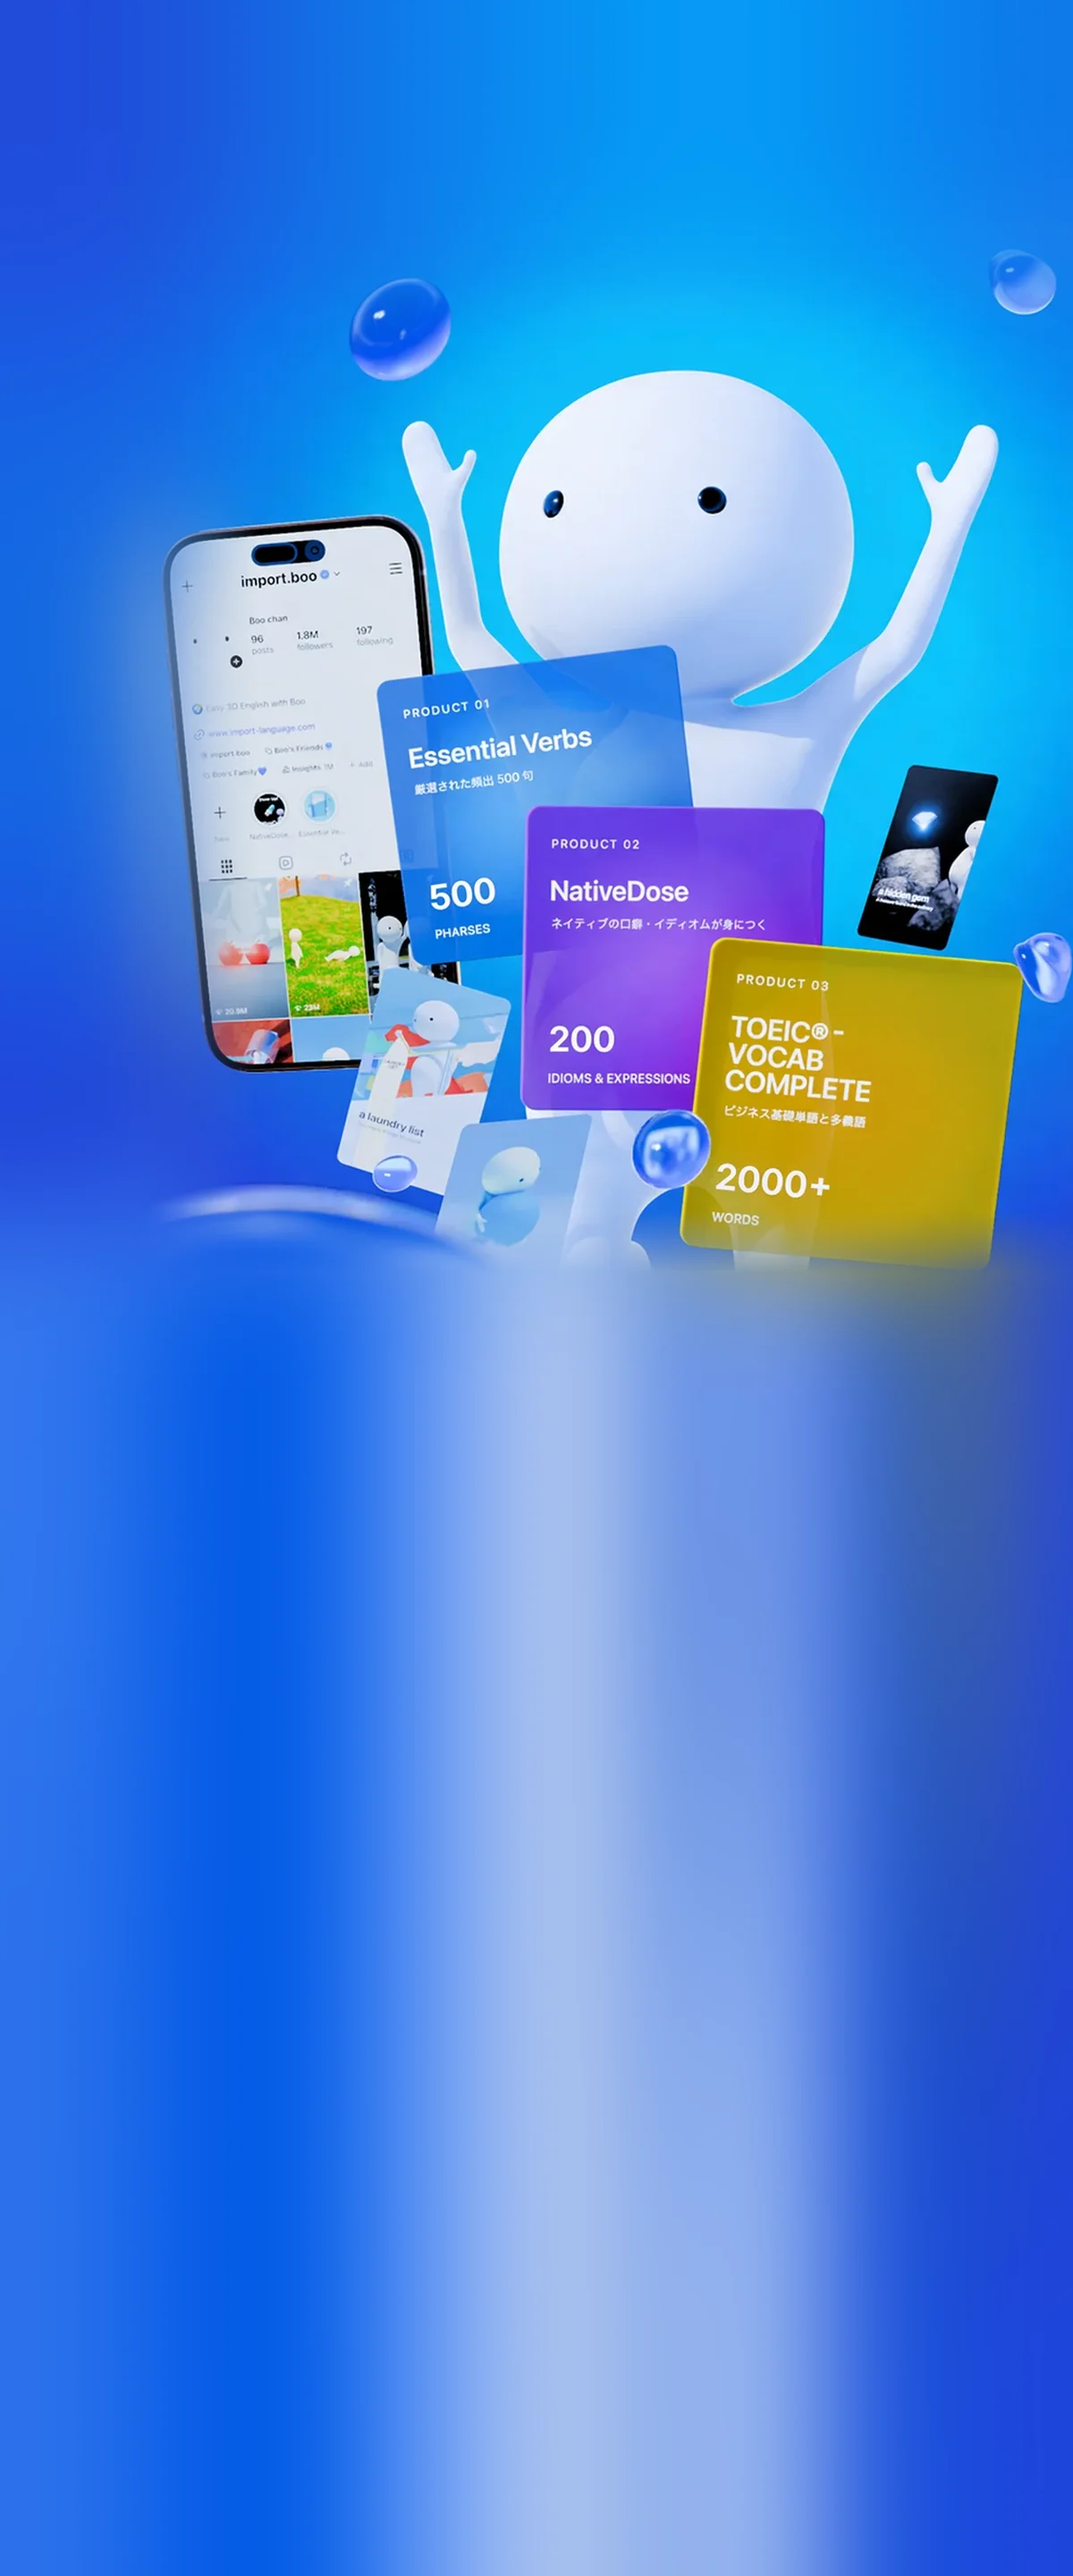
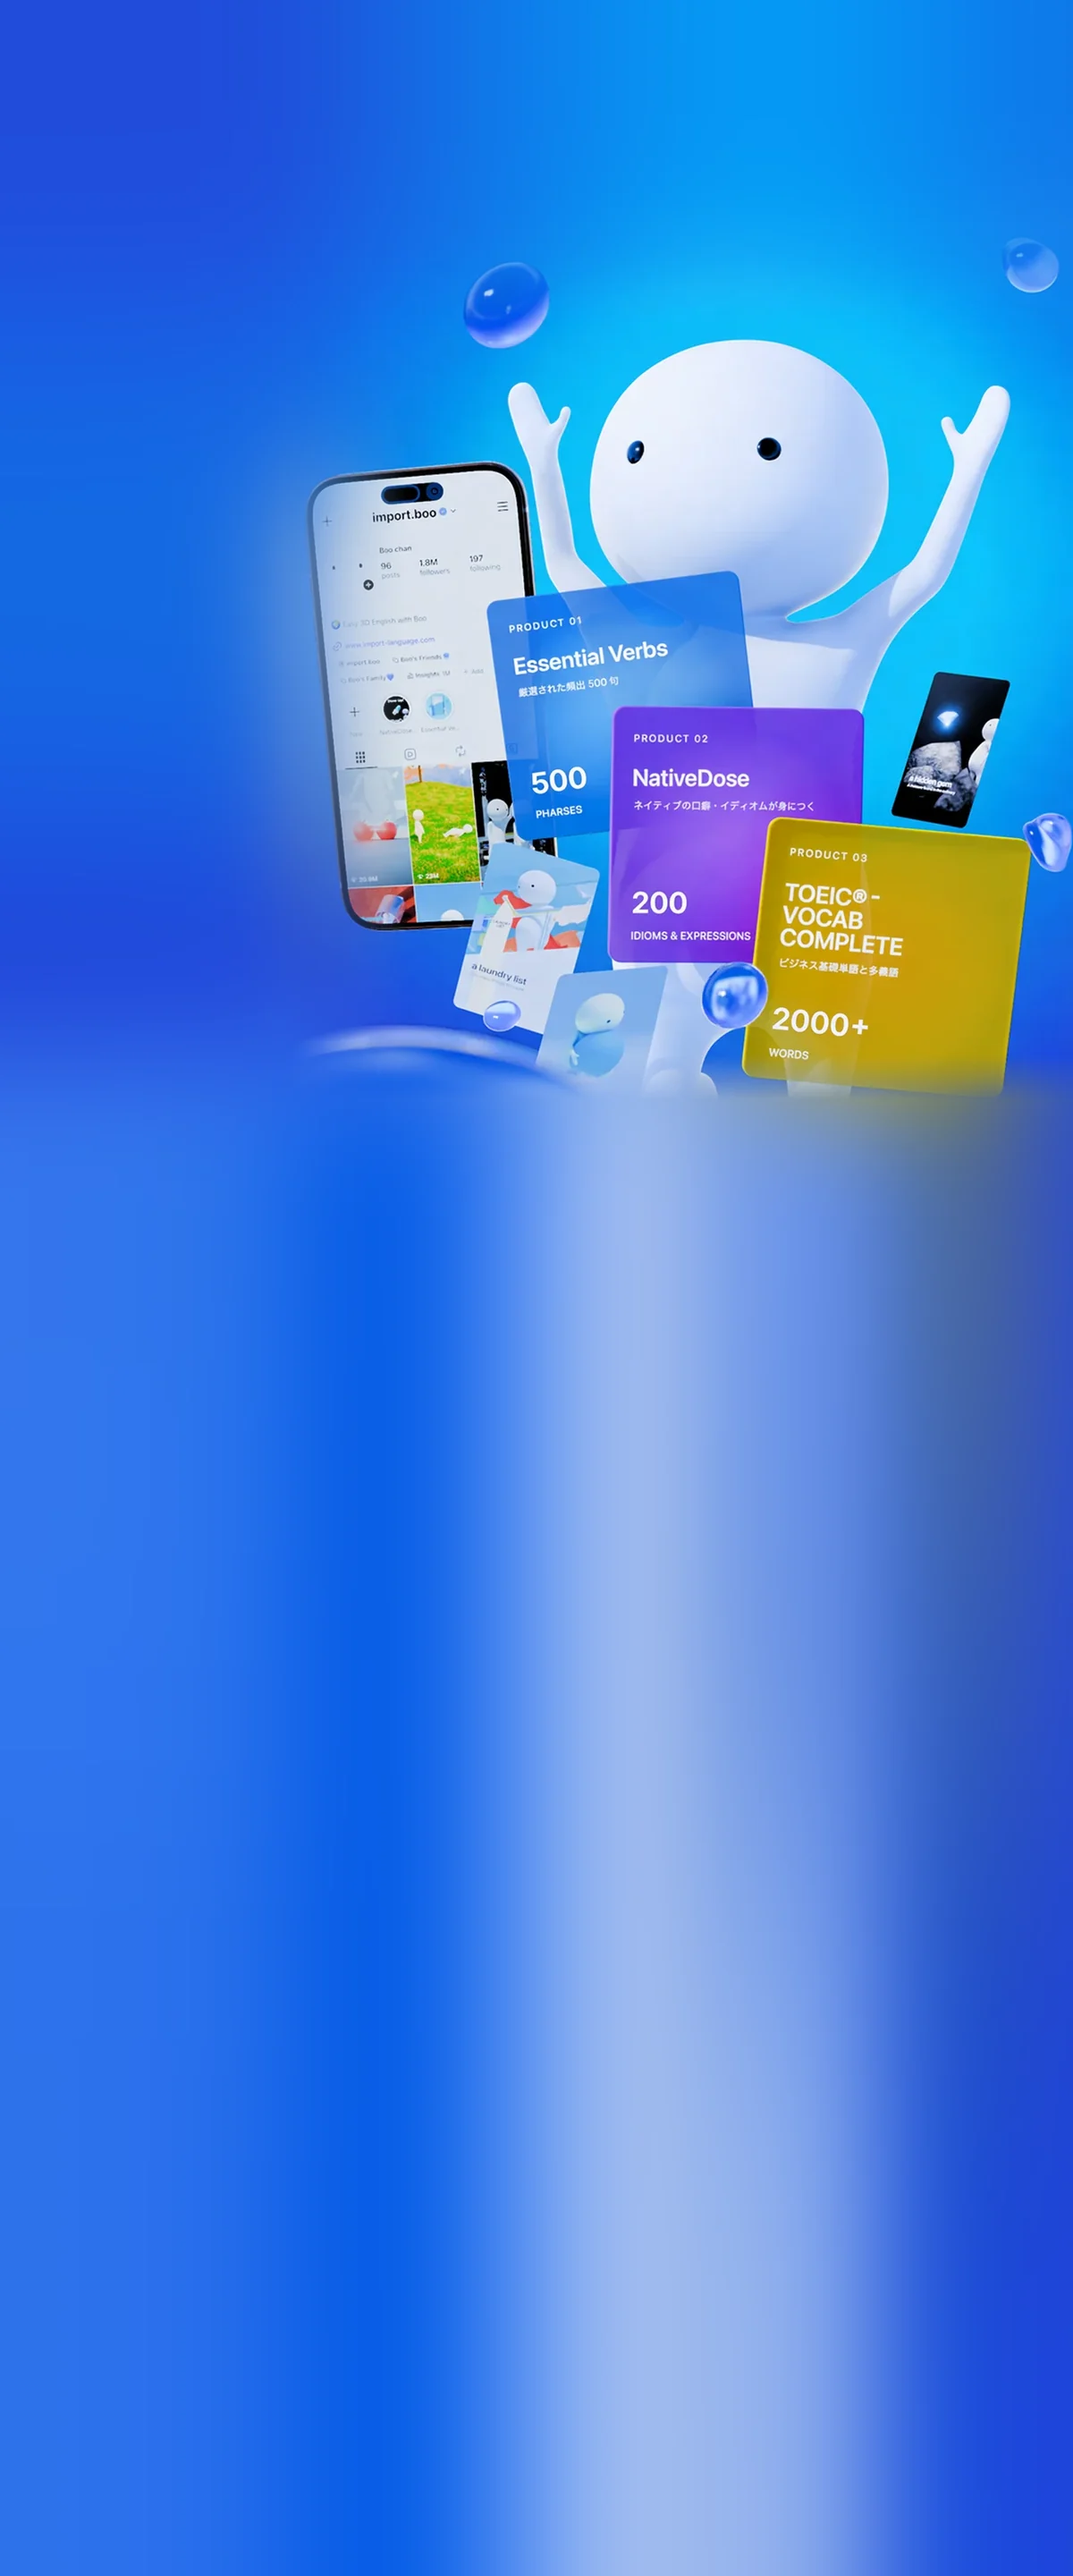
feat: Black Friday版のスマホ表示を調整（画像を小さくして文字にかからないように、上部固定ヘッダーを外す）
- スマホ用ヒーロー画像：絵を小さめにして、下のタグラインにかからない位置で終わらせる
- スマホでは上部の固定ヘッダーを出さない（購入の入口は下の固定バー）
- verify-mobile-hero.js：ヘッダーを出さないページ用に MOBILE_NAV=none を追加（既定の動作は変更なし）

diff --git a/scripts/verify-mobile-hero.js b/scripts/verify-mobile-hero.js
@@ -87,22 +87,30 @@ function fail(message, details = {}) {
       if (!metrics.titleText.includes(process.env.HERO_KEY_COPY || '英単語は忘れない')) {
         fail('Mobile hero title is missing the key copy.', { viewport: viewport.name, titleText: metrics.titleText });
       }
-      if (metrics.navDisplay === 'none' || metrics.navPosition !== 'fixed') {
-        fail('Mobile header CTA must stay visible and fixed without joining the hero layout flow.', {
-          viewport: viewport.name,
-          navDisplay: metrics.navDisplay,
-          navPosition: metrics.navPosition,
-        });
-      }
-      if (!metrics.navCtaText.includes('完全版を手に入れる')) {
-        fail('Mobile header CTA copy is missing.', { viewport: viewport.name, navCtaText: metrics.navCtaText });
-      }
-      if (metrics.titleTop <= metrics.navBottom + 16) {
-        fail('Mobile header CTA is too close to the hero title.', {
-          viewport: viewport.name,
-          navBottom: metrics.navBottom,
-          titleTop: metrics.titleTop,
-        });
+      // スマホで上部固定ヘッダーを出さないページ（Black Friday 版）は MOBILE_NAV=none を付けて実行する。
+      // その場合はヘッダーが無いことを確かめ、購入の入口は下の固定バー（この後の検査）に任せる。
+      if (process.env.MOBILE_NAV === 'none') {
+        if (metrics.navDisplay !== 'none') {
+          fail('Mobile header is expected to be hidden on this page.', { viewport: viewport.name, navDisplay: metrics.navDisplay });
+        }
+      } else {
+        if (metrics.navDisplay === 'none' || metrics.navPosition !== 'fixed') {
+          fail('Mobile header CTA must stay visible and fixed without joining the hero layout flow.', {
+            viewport: viewport.name,
+            navDisplay: metrics.navDisplay,
+            navPosition: metrics.navPosition,
+          });
+        }
+        if (!metrics.navCtaText.includes('完全版を手に入れる')) {
+          fail('Mobile header CTA copy is missing.', { viewport: viewport.name, navCtaText: metrics.navCtaText });
+        }
+        if (metrics.titleTop <= metrics.navBottom + 16) {
+          fail('Mobile header CTA is too close to the hero title.', {
+            viewport: viewport.name,
+            navBottom: metrics.navBottom,
+            titleTop: metrics.titleTop,
+          });
+        }
       }
       if (metrics.stickyVisibleInitially !== true) {
         fail('Sticky offer CTA should be visible from the initial view.', { viewport: viewport.name, stickyVisibleInitially: metrics.stickyVisibleInitially });

diff --git a/blackfriday.html b/blackfriday.html
@@ -6052,6 +6052,14 @@ body.theme-blackfriday .nav-offer{display: none}
   body.theme-blackfriday .hero-sub-m{display: none}
   body.theme-blackfriday .hero-below .hero-extra{margin-top: 16px}
 }
+
+/* --- スマホでは上部の固定ヘッダー（「完全版を手に入れる」）を出さない ---
+   購入の入口は画面下の固定バー（「購入する」）に一本化する。
+   バナーはヘッダーの分だけ上を空けていたので、その余白もなくす。PCのヘッダーはそのまま。 */
+@media (max-width: 768px){
+  body.theme-blackfriday .nav{display: none}
+  body.theme-blackfriday .bf-banner{padding-top: 0}
+}
 </style>
 </head>
 <body class="sale-mode-discount-only theme-blackfriday" data-lp-variant="blackfriday">

diff --git a/scripts/variant-themes/blackfriday.css b/scripts/variant-themes/blackfriday.css
@@ -479,3 +479,11 @@ body.theme-blackfriday .nav-offer{display: none}
   body.theme-blackfriday .hero-sub-m{display: none}
   body.theme-blackfriday .hero-below .hero-extra{margin-top: 16px}
 }
+
+/* --- スマホでは上部の固定ヘッダー（「完全版を手に入れる」）を出さない ---
+   購入の入口は画面下の固定バー（「購入する」）に一本化する。
+   バナーはヘッダーの分だけ上を空けていたので、その余白もなくす。PCのヘッダーはそのまま。 */
+@media (max-width: 768px){
+  body.theme-blackfriday .nav{display: none}
+  body.theme-blackfriday .bf-banner{padding-top: 0}
+}

diff --git a/scripts/tools/make-mobile-hero.py b/scripts/tools/make-mobile-hero.py
@@ -7,10 +7,10 @@ W, H = 1200, 2880
 sw, sh = src.size
 left = round(sw * 0.49)                               # 右側 51%（キャラクターと商品カード）を使う。元画像の大きさが変わっても同じ割合で切る
 crop = src.crop((left, 0, sw, sh))
-cw = 1051                                             # スマホ画像の中での幅
+cw = 885                                              # スマホ画像の中での幅。下のタグライン（画像の上から約 1280px）に絵がかからない大きさ
 ch = round(sh * cw / (sw - left))
 crop = crop.resize((cw, ch), Image.LANCZOS)
-x0, y0 = W - cw, 260                                  # 右寄せ。キャラクターの頭が元のスマホ画像と同じ高さに来る位置
+x0, y0 = W - cw, 250                                  # 右寄せ。絵の下端が約 1230px（タグラインの手前）で終わる位置
 
 # 背景：切り出しの端の色を上下左右に引き伸ばしてから強くぼかし、同じ空間が続いているように見せる
 bg = Image.new('RGB', (W, H))
@@ -29,8 +29,8 @@ px = mask.load()
 for y in range(110):   # 上
     f = y / 110
     for x in range(cw): px[x, y] = int(px[x, y] * f)
-for y in range(70):    # 下
-    f = y / 70
+for y in range(50):    # 下
+    f = y / 50
     for x in range(cw): px[x, ch - 1 - y] = int(px[x, ch - 1 - y] * f)
 bg.paste(crop, (x0, y0), mask)
 bg.save(sys.argv[2], 'WEBP', quality=86, method=6)

diff --git a/README.md b/README.md
@@ -61,6 +61,7 @@ HERO_KEY_COPY="映像で忘れない" node scripts/verify-mobile-hero.js http://
 - テーマは `scripts/variant-themes/blackfriday.css`。
 - 期間中に `/` を Black Friday 版にするには、`scripts/pages.config.js` の `home` を `'blackfriday'` にして main に入れる。終了後は `'index'` に戻す。仮値のままでは切り替えられない（ビルドがエラーで止まる）。
 - `/` を切り替えている間、`verify-price-ladder.js` などトップの価格を前提にした検査は期待値が変わる。
+- スマホでは上部の固定ヘッダーを出さない。スマホのファーストビュー検査は `MOBILE_NAV=none node scripts/verify-mobile-hero.js <URL>/blackfriday` で実行する。
 
 ## Vercelへのデプロイ
 
